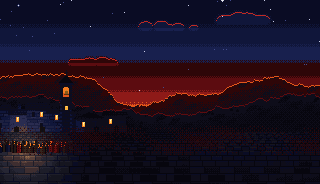
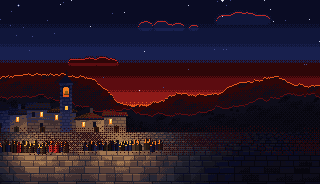
Stops: the soha catches an onlooker on the Rope card; Shrove Tuesday's last great fire
The Rope's card shows the rope flying from the Issohadore's loop and dropping
round someone in the crowd (the onlooker sprite was empty: fixed). Shrove
Tuesday gets its last bonfire on the card, lighting the row as it passes.

Changed region(s): [[0.0, 0.4348, 0.6562, 1.0]]

diff --git a/tools/art/pixel/stops.py b/tools/art/pixel/stops.py
@@ -477,6 +477,31 @@ def stop5():
     wd.figure("mamuthone_dark_brown_stand", 148, 128, False, "halfdim")
     wd.figure("mamuthone_black_air", 104, G - 8)
     wd.figure("issohadore_throw", 196, G, False)
+    # someone in the crowd about to be caught by the soha: the rope flies from the Issohadore's loop
+    # over to him and drops round his shoulders
+    ol = Canvas(26, 32)
+    Lo = S.Light(26, 32, ambient=0.35)
+    Lo.add(26, 12, 30, 0.8)
+    S.crowd(ol, Lo, 10, 13, 29, size=1.6, seed=5, fire_x=40, faces=1.0, kerchiefs=0.0, jitter=0)
+    ol.outline("K0")
+    wd.mid.blit(ol, 240 - 12, G + 1 - 30)
+    arc = [(207, 103), (216, 92), (228, 94), (237, 112), (240, 152)]
+    pts = []
+    for i in range(len(arc) - 1):
+        p0 = arc[max(0, i - 1)]
+        p1, p2 = arc[i], arc[i + 1]
+        p3 = arc[min(len(arc) - 1, i + 2)]
+        for k in range(4):
+            t = k / 4
+            t2, t3 = t * t, t * t * t
+            x = 0.5 * (2 * p1[0] + (-p0[0] + p2[0]) * t + (2 * p0[0] - 5 * p1[0] + 4 * p2[0] - p3[0]) * t2 + (-p0[0] + 3 * p1[0] - 3 * p2[0] + p3[0]) * t3)
+            y = 0.5 * (2 * p1[1] + (-p0[1] + p2[1]) * t + (2 * p0[1] - 5 * p1[1] + 4 * p2[1] - p3[1]) * t2 + (-p0[1] + 3 * p1[1] - 3 * p2[1] + p3[1]) * t3)
+            pts.append((round(x), round(y)))
+    # the noose round his shoulders
+    for k in range(13):
+        a = math.pi * 2 * k / 12 - math.pi / 2
+        pts.append((round(240 + 7 * math.cos(a)), round(161 + 3 * math.sin(a))))
+    wd.rope = pts
     wd.row = {"x": 0.3, "ground": G - 30, "front": 2, "back": 2, "isso": 2, "far": True,
               "isso_at": [0.62, G], "onlooker": [0.84, G - 2]}
     return wd
@@ -539,6 +564,7 @@ def stop7():
     L = S.Light(W, H, ambient=0.08)
     L.add(250, 104, 150, 0.35, flat=0.6)
     L.add(26, 150, 70, 0.8)
+    L.add(118, 140, 130, 1.0)
     bg = wd.bg
     S.sky_dusk(bg, 0, 118, seed=71)
     # the sun just gone: a hot line on the horizon
@@ -557,16 +583,22 @@ def stop7():
     S.logs(wd.mid, 26, 152, 20, 8, seed=76)
     wd.glow(26, 136, 40, 30)
     S.crowd(bg, L, -6, 70, 150, size=0.8, seed=77, fire_x=26)
+    # the last great fire, on the road out: the row passes it one last time
+    wd.fire(118, 160, "big")
+    S.logs(wd.mid, 118, 162, 34, 12, seed=79)
+    wd.glow(118, 120, 80, 60)
+    wd.smoke.append({"x": 118, "y": 70})
+    S.crowd(bg, L, 84, 160, 148, size=0.7, seed=80, fire_x=118)
     S.fog(bg, 124, 156, col="RED0", amount=0.4, seed=78)
     wd.fog = {"y0": 140, "y1": H, "col": "RED1"}
     wd.card = (80, 30)
     wd.figure("mamuthone_black_stand", 244, 146, False, "halfdim")
     wd.figure("mamuthone_black_stand", 258, 145, False, "halfdim")
     wd.figure("issohadore_stand", 276, 144, False, "half")
-    wd.figure("mamuthone_black_air", 156, G - 4, True, "dim")
-    wd.figure("mamuthone_black_land", 196, G, True, "dim")
-    wd.figure("issohadore_stand", 232, G + 2, True, "dim")
-    wd.row = {"x": 0.58, "ground": G + 2, "front": 3, "back": 2, "isso": 1, "far": True, "var": "dim", "flip": True}
+    wd.figure("mamuthone_black_air", 166, G - 4, True)
+    wd.figure("mamuthone_black_land", 204, G, True)
+    wd.figure("issohadore_stand", 240, G + 2, True)
+    wd.row = {"x": 0.58, "ground": G + 2, "front": 3, "back": 2, "isso": 1, "far": True, "flip": True}
     return wd
 
 
@@ -717,7 +749,7 @@ def export(worlds):
     ol = Canvas(26, 32)
     Lo = S.Light(26, 32, ambient=0.35)
     Lo.add(26, 12, 30, 0.8)
-    S.crowd(ol, Lo, 12, 13, 29, size=1.6, seed=5, fire_x=40, faces=1.0, kerchiefs=0.0, jitter=0)
+    S.crowd(ol, Lo, 10, 13, 29, size=1.6, seed=5, fire_x=40, faces=1.0, kerchiefs=0.0, jitter=0)
     ol.outline("K0")
     ol.save(os.path.join(OUT, "figs", "onlooker.png"))
     fig_lines.append('\t"onlooker": [Vector2i(%d, %d), Vector2i(%d, %d)],' % (ol.w, ol.h, 12, 30))
